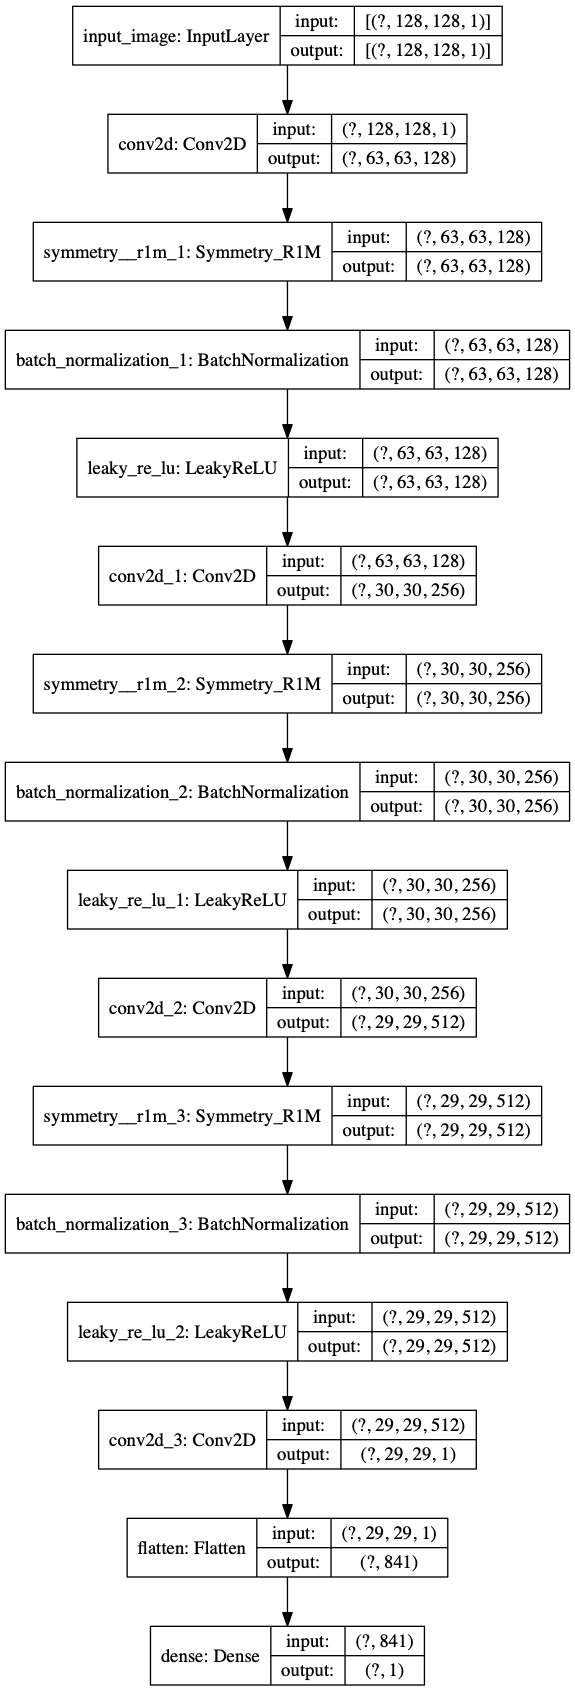
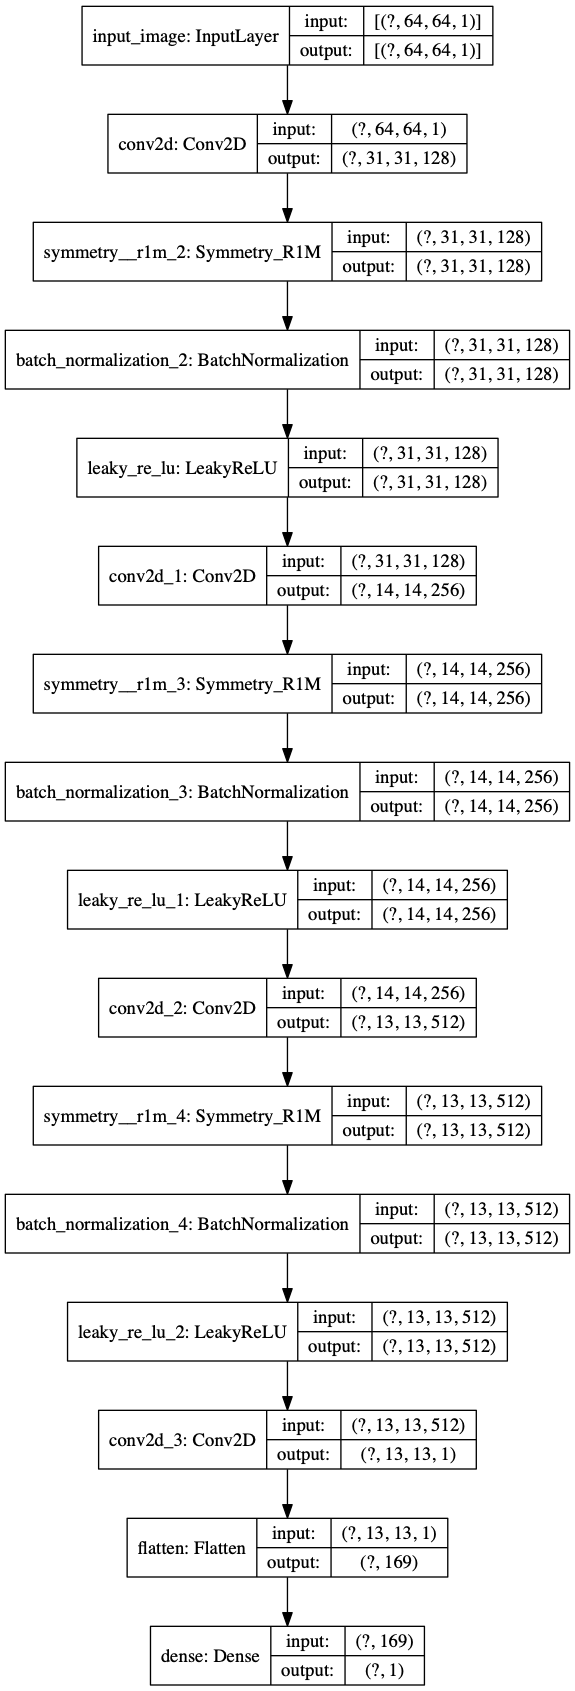
update

diff --git a/model.py b/model.py
@@ -515,8 +515,8 @@ def plot_to_image(figure):
     return image
 
 if __name__ == '__main__':
-    Gen = make_generator_model(len_low_size=32, scale=4)
-    Dis = make_discriminator_model(len_low_size=32, scale=4)
+    Gen = make_generator_model(len_low_size=16, scale=4)
+    Dis = make_discriminator_model(len_low_size=16, scale=4)
     print(Gen.summary())
     tf.keras.utils.plot_model(Gen, to_file='G.png', show_shapes=True)
     print(Dis.summary())
